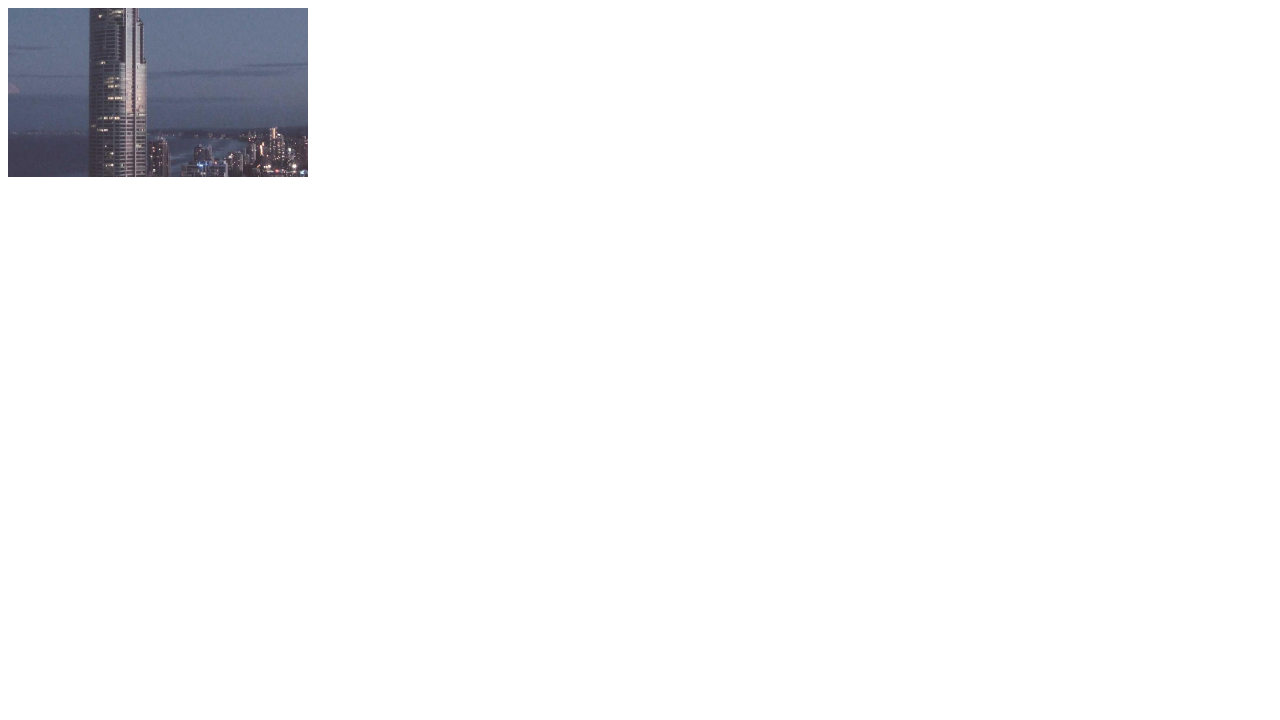
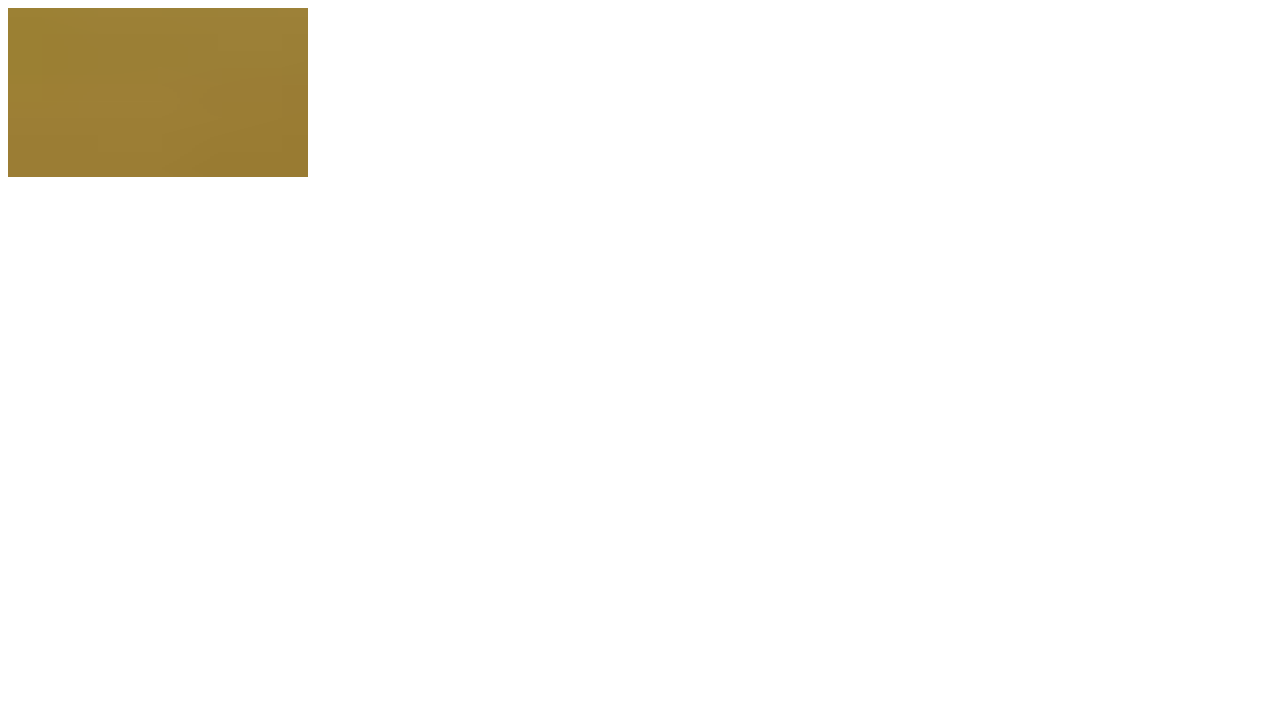
fix: use hardware-accelerated transforms for cover cropping to prevent blank rendering in certain browser engines

Changed region(s): [[0.0, 0.0, 0.25, 0.2444]]

diff --git a/test-style.js b/test-style.js
@@ -1,7 +1,8 @@
-export function getCoverStyle(url: string | null | undefined): React.CSSProperties {
+function getCoverStyle(url) {
   if (!url) return { objectFit: "cover" };
 
-  const [, query] = url.split("?");
+  const parts = url.split("?");
+  const query = parts[1];
   const params = new URLSearchParams(query || "");
 
   if (params.has("cw")) {
@@ -12,13 +13,11 @@ export function getCoverStyle(url: string | null | undefined): React.CSSProperti
 
     return {
       position: "absolute",
-      top: 0,
-      left: 0,
+      left: `${-(cx / cw) * 100}%`,
+      top: `${-(cy / ch) * 100}%`,
       width: `${(100 / cw) * 100}%`,
       height: `${(100 / ch) * 100}%`,
-      transform: `translate(-${cx}%, -${cy}%)`,
-      transformOrigin: "top left",
-      objectFit: "cover",
+      objectFit: "fill",
       maxWidth: "none",
       maxHeight: "none",
     };
@@ -44,3 +43,5 @@ export function getCoverStyle(url: string | null | undefined): React.CSSProperti
     transform: `scale(${zoom})`,
   };
 }
+
+console.log(getCoverStyle("http://example.com/image.jpg?cx=50&cy=50&cw=50&ch=50"));

diff --git a/test-pw.js b/test-pw.js
@@ -5,17 +5,18 @@ const { chromium } = require('playwright');
   await page.setContent(`
     <style>
       .aspect-video { aspect-ratio: 16 / 9; width: 300px; background: #ccc; position: relative; }
-      .relative { position: relative; }
+      .absolute { position: absolute; }
+      .inset-0 { top: 0; right: 0; bottom: 0; left: 0; }
+      .overflow-hidden { overflow: hidden; }
       .h-full { height: 100%; }
       .w-full { width: 100%; }
-      .overflow-hidden { overflow: hidden; }
     </style>
     <div class="aspect-video">
-      <div class="relative h-full w-full overflow-hidden">
+      <div class="absolute inset-0 overflow-hidden">
         <img
           src="https://picsum.photos/1000/2000"
           class="h-full w-full"
-          style="position: absolute; left: 0%; top: -127.777%; width: 100%; height: 355.555%; object-fit: fill; max-width: none; max-height: none;"
+          style="position: absolute; left: -100%; top: -100%; width: 20000%; height: 20000%; object-fit: fill; max-width: none; max-height: none;"
         />
       </div>
     </div>

diff --git a/test-math.js b/test-math.js
@@ -1,0 +1,22 @@
+const IW = 1000;
+const IH = 2000;
+const CW = 160;
+const CH = 90;
+
+// crop box in pixels (16:9)
+const cropW = 1000;
+const cropH = 562.5;
+
+// croppedAreaPercentages
+const cw_percent = (cropW / IW) * 100;
+const ch_percent = (cropH / IH) * 100;
+
+// getCoverStyle
+const cssW = (100 / cw_percent) * 100;
+const cssH = (100 / ch_percent) * 100;
+
+const imgW = (cssW / 100) * CW;
+const imgH = (cssH / 100) * CH;
+
+console.log("Image Rendered AR:", imgW / imgH);
+console.log("Original Image AR:", IW / IH);

diff --git a/app/api/test/route.ts b/app/api/test/route.ts
@@ -1,0 +1,14 @@
+import { NextResponse } from 'next/server';
+import { getInitialCropFromCroppedAreaPercentages } from 'react-easy-crop/helpers.js';
+
+export async function GET() {
+  try {
+    const res = getInitialCropFromCroppedAreaPercentages(
+      {x: 50, y: 50, width: 50, height: 50}, 
+      {width: 1000, height: 1000}, 0, {width: 500, height: 500}, 1, 3
+    );
+    return NextResponse.json({ ok: true, res });
+  } catch (err) {
+    return NextResponse.json({ ok: false, error: err.message });
+  }
+}

diff --git a/run-test.js b/run-test.js
@@ -1,0 +1,8 @@
+const React = require('react');
+const { renderToStaticMarkup } = require('react-dom/server');
+const Cropper = require('react-easy-crop').default;
+
+const crop = { x: 0, y: 0 };
+const zoom = 1;
+
+// We can't render it in node because it requires DOM.
